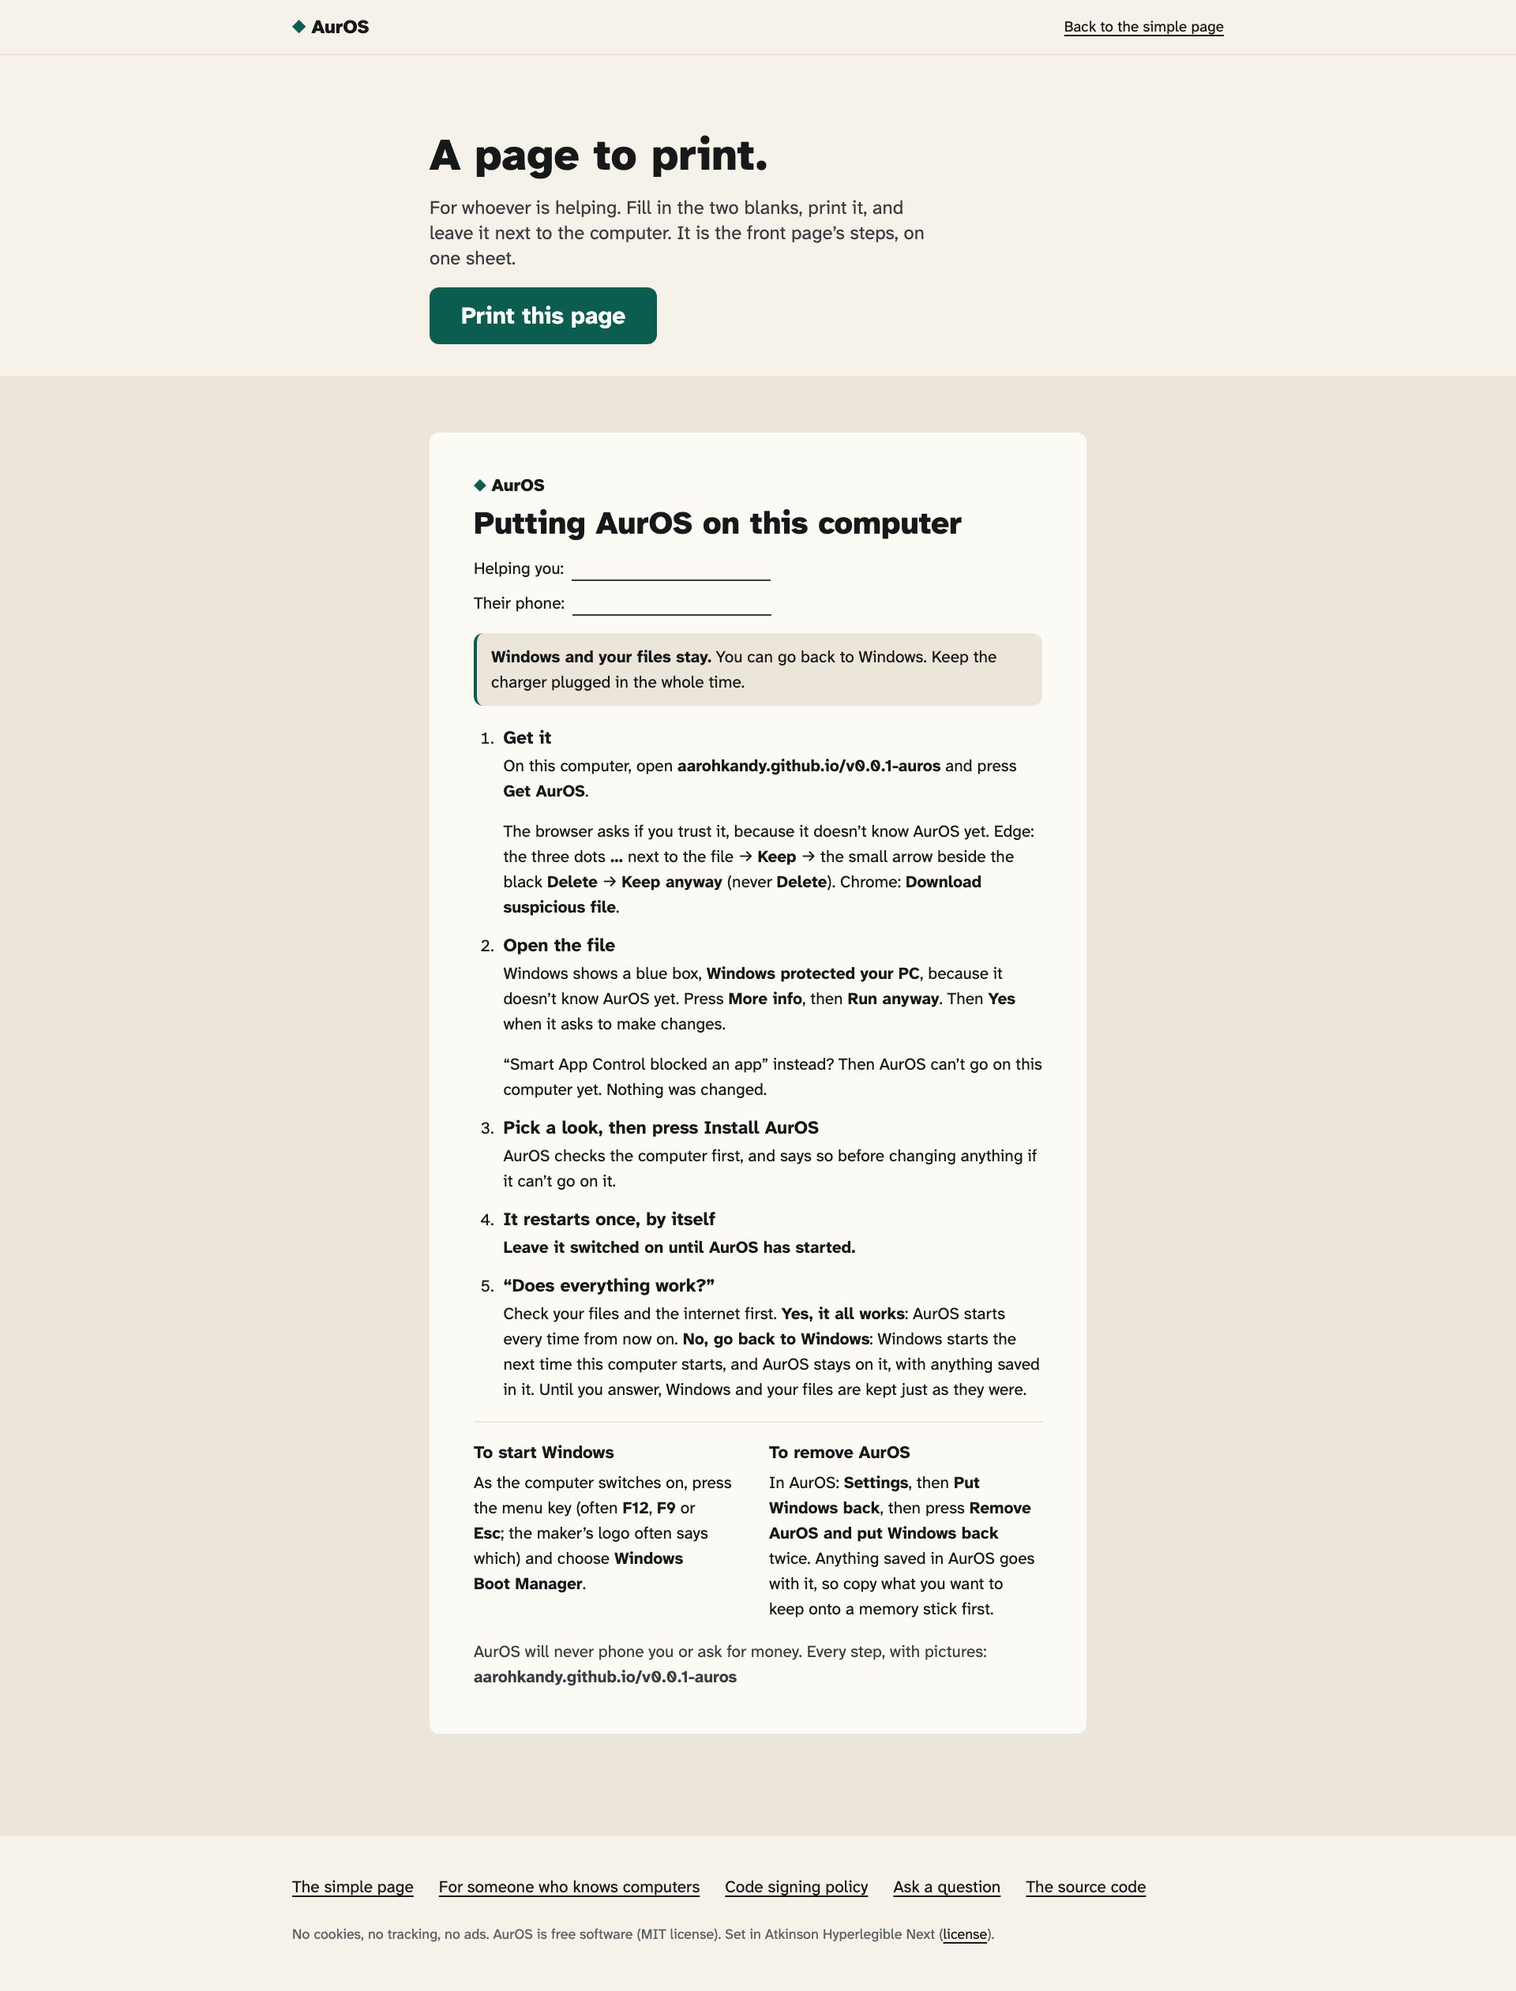
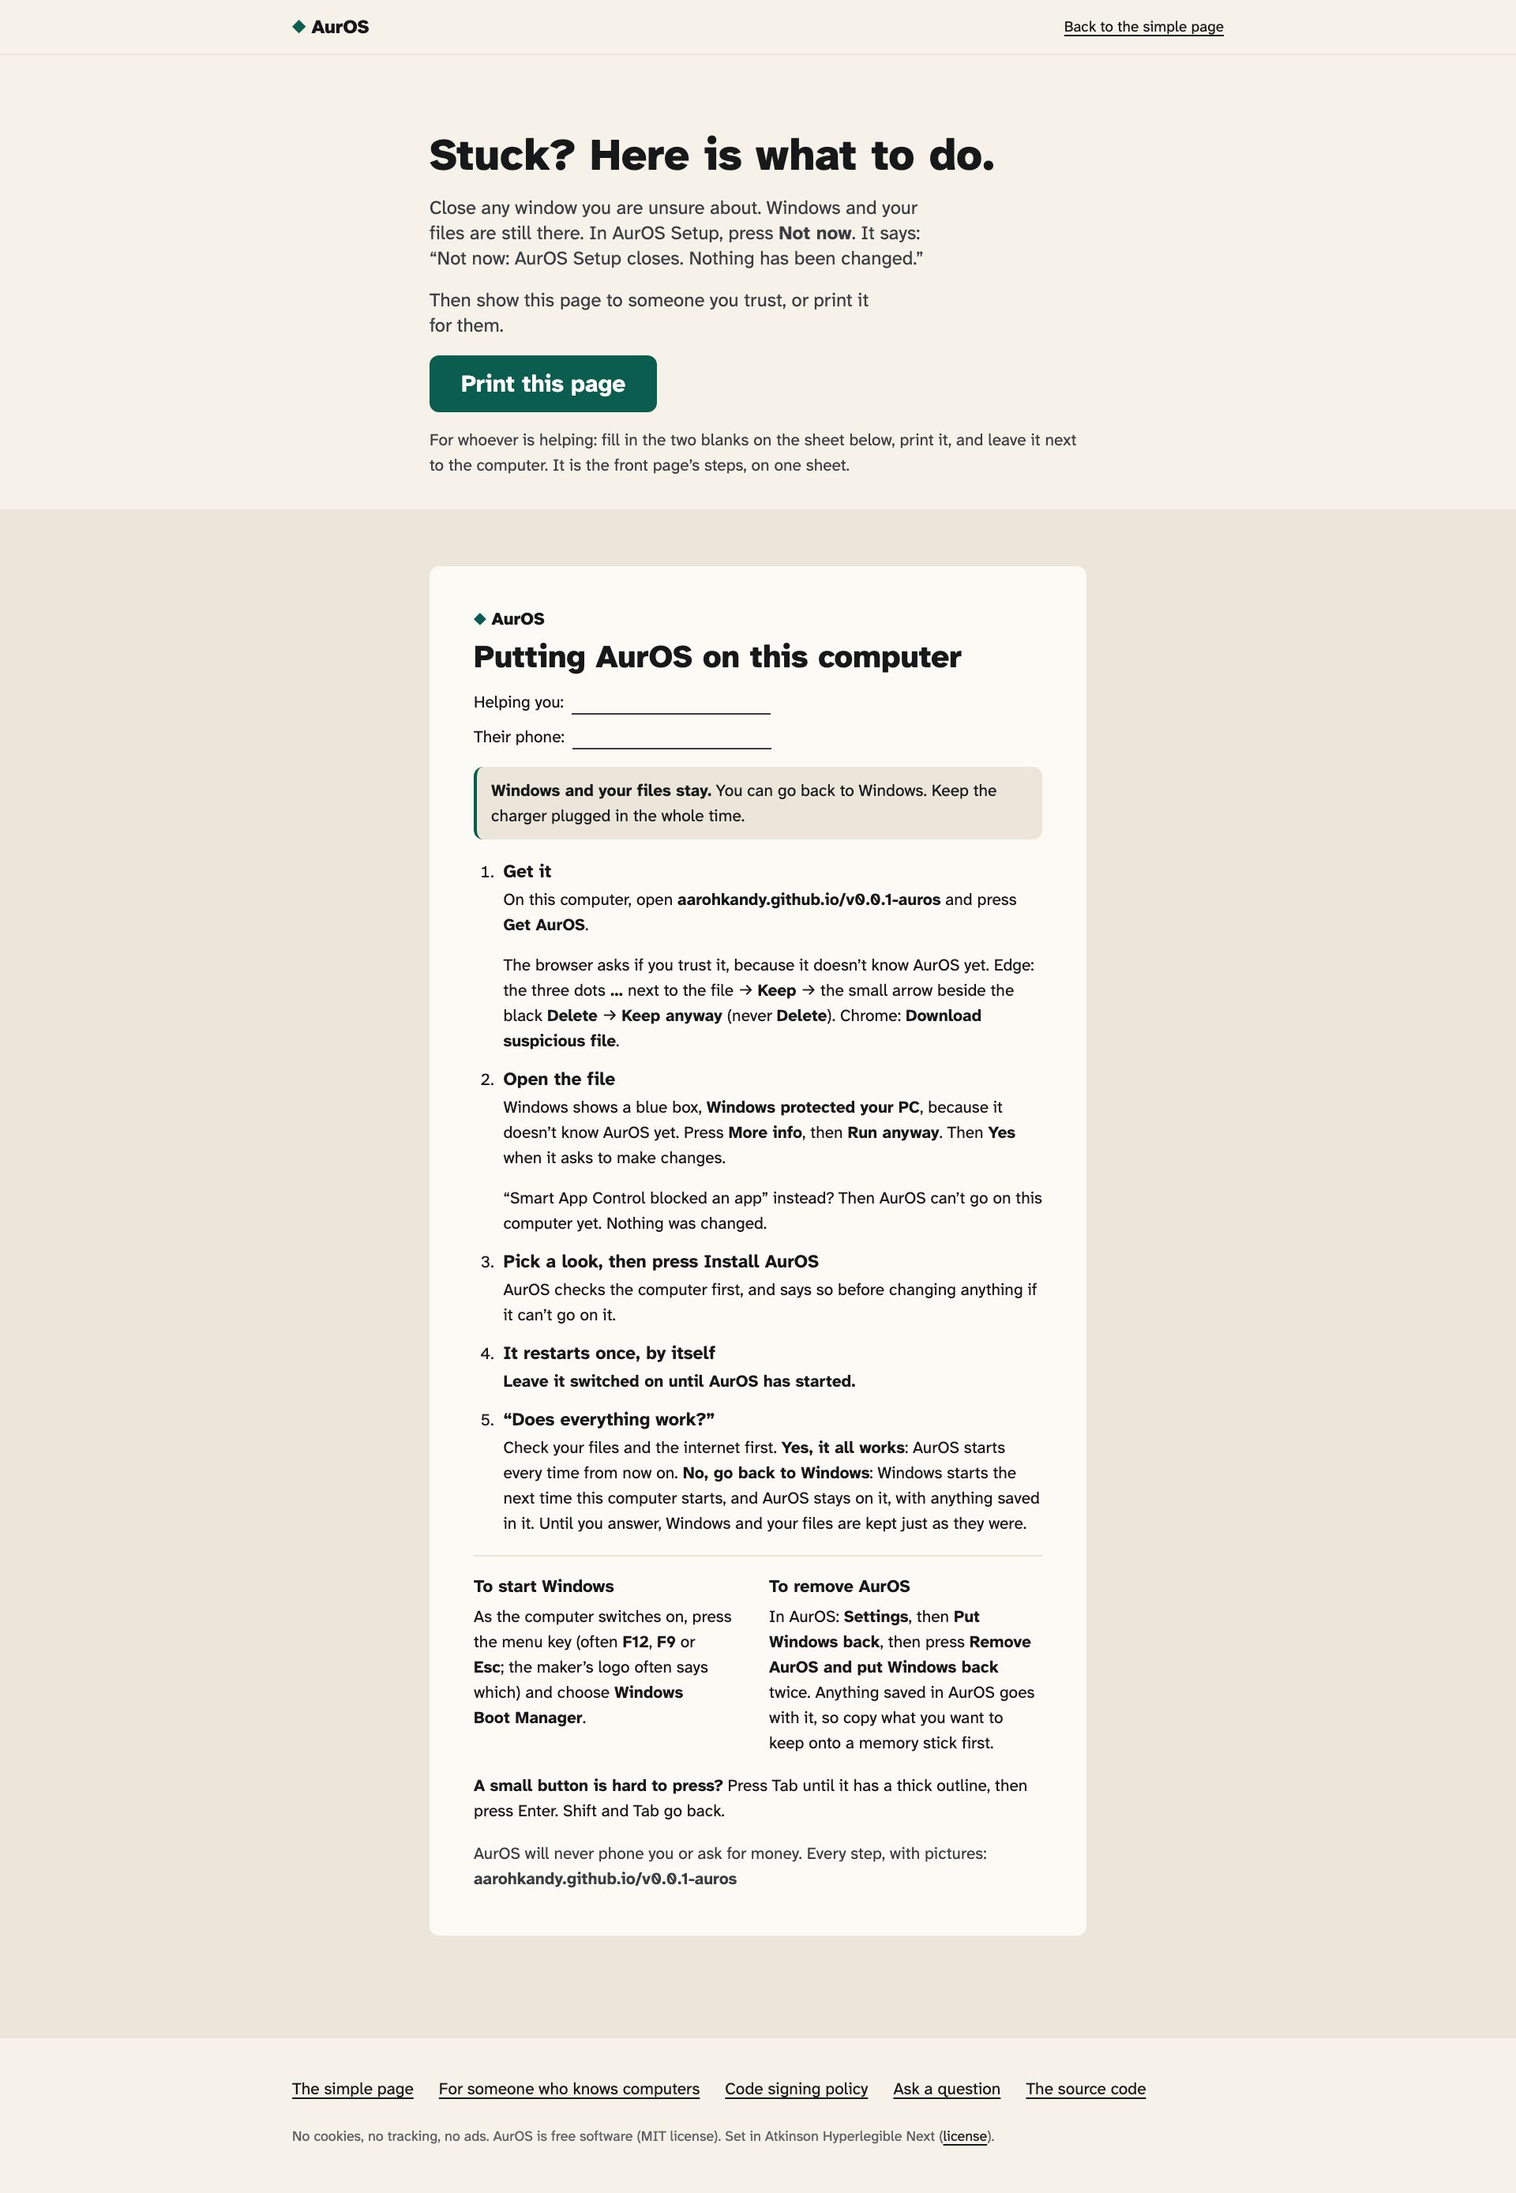
website: the walkthrough's remaining fixes (A-02, A-05, A-06, A-09, B-03, B-04, B-06)
Each check was written first and failed (17 red) before the page changed.

A-02: under the button, "Not sure which Windows you have? Press Get AurOS.
Setup checks, and changes nothing if it can't go on"; the second half is
tied to wizard.c ("AurOS stops here. Nothing was changed.").
A-05: pressing Get AurOS scrolls to step 1 and says "You are here: your
browser is asking if you trust the file" (a status for a screen reader; the
download is not stopped; a phone or Mac is not told).
A-06: "Stuck? Show a helper" becomes "Stuck? Ask someone to help", and the
page it opens starts with what she does: close the window, press Not now (it
says nothing has been changed), show the page to someone she trusts, then
Print. The old wording is refused by the check.
B-03: once, before step 1: the answers are Keep, Run anyway and Yes; never
Delete, Don't run or No.
B-04: the printed sheet says how to press a small button with Tab and Enter.
B-06: Smart App Control is described as a Windows setting someone who knows
computers can change, not "AurOS can't go on this computer".
A-09: "Will I lose my files?" no longer opens with a bare No beside advice
to copy photos: made to keep, and copy what you treasure first.

diff --git a/website/index.html b/website/index.html
@@ -43,6 +43,7 @@
           <span>Get AurOS</span>
         </a>
         <p class="facts-line">Free. For Windows&nbsp;10 and&nbsp;11. About <span data-fact="time-ssd">25 to 60</span>&nbsp;minutes. Older computers take longer.</p>
+        <p class="facts-line not-sure">Not sure which Windows you have? Press <b>Get AurOS</b>. Setup checks, and <span data-claim="stop:nothing-changed">changes nothing if it can&rsquo;t go on</span>.</p>
         <p class="old-win" id="old-win" hidden>AurOS needs Windows&nbsp;10 or&nbsp;11, and this computer may have an older Windows. AurOS Setup checks first and tells you.</p>
       </div>
 
@@ -93,13 +94,14 @@
       <div class="head">
         <p class="eyebrow">How to install</p>
         <h2 id="steps-title">Three steps. Every one shown.</h2>
-        <p>Your internet browser and Windows will each ask if you trust AurOS. The pictures show exactly what to press: follow the numbered circles.</p>
+        <p>Your internet browser and Windows will each ask if you trust AurOS, more than once. The answers are always <b>Keep</b> (then <b>Keep anyway</b>), <b>Run anyway</b> and <b>Yes</b>. Never press <b>Delete</b>, <b>Don&rsquo;t run</b> or <b>No</b>. The pictures show exactly where: follow the numbered circles.</p>
       </div>
 
       <ol class="steplist">
         <!-- 1: the download -->
         <li class="step" id="step-download">
           <div class="step-text">
+            <p class="here" id="here" role="status"></p>
             <span class="num" aria-hidden="true">1</span>
             <h3><span class="vh">Step 1: </span>Download it</h3>
             <p>Press <b>Get AurOS</b>. Your computer saves a file called <span class="file">AurOS-Setup.exe</span>.</p>
@@ -107,9 +109,9 @@
             <p>Then open it: press <b>Open file</b> under its name, or find <span class="file">AurOS-Setup.exe</span> in your <b>Downloads</b> folder and open it.</p>
             <div class="note" id="antivirus">
               <h4>If your antivirus program takes the file</h4>
-              <p>Some antivirus programs don&rsquo;t know AurOS yet either, and may put the file away. Nothing has been installed, and nothing on your computer has changed. Open your antivirus program, look for its list of blocked files, and put <span class="file">AurOS-Setup.exe</span> back, only if you got it from this page a moment ago. If you can&rsquo;t find it, press <b>Stuck? Show a helper</b>.</p>
+              <p>Some antivirus programs don&rsquo;t know AurOS yet either, and may put the file away. Nothing has been installed, and nothing on your computer has changed. Open your antivirus program, look for its list of blocked files, and put <span class="file">AurOS-Setup.exe</span> back, only if you got it from this page a moment ago. If you can&rsquo;t find it, press <b>Stuck? Ask someone to help</b>.</p>
             </div>
-            <p class="helper"><a class="btn2" href="guide.html">Stuck? Show a helper</a></p>
+            <p class="helper"><a class="btn2" href="guide.html">Stuck? Ask someone to help</a></p>
           </div>
 
           <div>
@@ -183,7 +185,7 @@
             <p>Windows may show a blue box, <b>Windows protected your PC</b>, because it doesn&rsquo;t know AurOS yet. If you see it, press <b>More info</b>, then <b>Run anyway</b>, only if you got this file from this page a moment ago.</p>
             <p>Then Windows asks whether AurOS may make changes. Press <b>Yes</b>, the white button on the left. The blue button is <b>No</b>.</p>
             <p>If Windows asks for a password, stop. It needs the person who set up this computer.</p>
-            <p class="helper"><a class="btn2" href="guide.html">Stuck? Show a helper</a></p>
+            <p class="helper"><a class="btn2" href="guide.html">Stuck? Ask someone to help</a></p>
           </div>
 
           <div class="pics">
@@ -216,7 +218,7 @@
                  change she is not walked through here
                  (docs/DESIGN-DIRECTION.md section 5, D P0-1). -->
             <div class="sac" id="smart-app-control">
-              <p>If Windows says <b>Smart App Control blocked an app</b>, AurOS can&rsquo;t go on this computer yet. Nothing was changed.</p>
+              <p>If Windows says <b>Smart App Control blocked an app</b>, that is a Windows setting on some newer computers. Someone who knows computers can change it. Nothing was changed.</p>
               <p><a class="btn2" href="advanced.html#smart-app-control">Show a helper how</a></p>
             </div>
           </div>
@@ -231,7 +233,7 @@
             <p>Press <b data-ui="wizard">Next</b>, pick the look you like, press <b data-ui="wizard">Next</b> again, then <b data-ui="wizard">Install AurOS</b>. The computer <b>restarts once, by itself</b>. <span data-claim="dark:minute-or-two">The screen goes dark for a minute or two.</span> Leave the computer switched on.</p>
             <p data-claim="hold:rearms">When AurOS starts, it asks whether everything works. Until you answer, AurOS starts each time you switch on, and <b>Windows and your files are kept just as they were.</b> If AurOS fails to start, the computer starts Windows instead.</p>
             <p><b data-ui="desktop">No, go back to Windows</b>: Windows starts the next time this computer starts. AurOS stays on this computer, with anything you saved in it. Nothing is deleted.</p>
-            <p class="helper"><a class="btn2" href="guide.html">Stuck? Show a helper</a></p>
+            <p class="helper"><a class="btn2" href="guide.html">Stuck? Ask someone to help</a></p>
           </div>
 
           <div class="pics">
@@ -340,7 +342,7 @@
     <div class="wrap">
       <div class="head"><h2 id="faq-title">Questions.</h2></div>
       <div class="qa"><h3>Is it free?</h3><div><p>Yes. No ads and no subscription. AurOS is made in the open, so anyone can check how it works.</p></div></div>
-      <div class="qa"><h3>Will I lose my files?</h3><div><p>No. AurOS goes into empty room on your computer, and your files stay in Windows, untouched.</p></div></div>
+      <div class="qa"><h3>Will I lose my files?</h3><div><p>AurOS is made to keep your files. It goes into empty room on your computer, and your files stay in Windows, untouched. As before any big change, copy the photos you treasure onto a memory stick first.</p></div></div>
       <div class="qa"><h3>Can I go back to Windows?</h3><div><p>Yes. Until you tell AurOS that everything works, Windows and your files are kept just as they were. After <b data-ui="desktop">No, go back to Windows</b>, Windows starts the next time this computer starts. AurOS stays on this computer, with anything you saved in it. Nothing is deleted.</p><p>Later, <b data-ui="desktop">Put Windows back</b> in AurOS&rsquo;s Settings removes AurOS, and anything you saved in AurOS goes with it, so copy what you want to keep onto a memory stick first.</p></div></div>
       <div class="qa"><h3>What about my programs, like Microsoft Office?</h3><div><p>Programs made for Windows don&rsquo;t run in AurOS. AurOS comes with its own programs for the internet, notes, photos, music and video, and <b data-ui="desktop">Get more programs</b> has many more, free. You can use Microsoft Office on the internet, at office.com.</p></div></div>
       <div class="qa"><h3>Is it safe?</h3><div><p>Your files and Windows are kept until you say everything works. AurOS Setup checks your computer before it changes anything. Windows and your internet browser ask if you trust AurOS because they don&rsquo;t know it yet.</p></div></div>

diff --git a/website/guide.html b/website/guide.html
@@ -23,9 +23,11 @@
 <main id="main">
   <section class="page-head no-print" aria-labelledby="guide-title">
     <div class="narrow">
-      <h1 id="guide-title">A page to print.</h1>
-      <p class="lede">For whoever is helping. Fill in the two blanks, print it, and leave it next to the computer. It is the front page&rsquo;s steps, on one sheet.</p>
+      <h1 id="guide-title">Stuck? Here is what to do.</h1>
+      <p class="lede">Close any window you are unsure about. Windows and your files are still there. In AurOS Setup, press <b data-ui="wizard">Not now</b>. It says: &ldquo;<span data-ui="wizard">Not now: AurOS Setup closes. Nothing has been changed.</span>&rdquo;</p>
+      <p class="lede">Then show this page to someone you trust, or print it for them.</p>
       <p><button class="get" type="button" id="print">Print this page</button></p>
+      <p class="fig-note">For whoever is helping: fill in the two blanks on the sheet below, print it, and leave it next to the computer. It is the front page&rsquo;s steps, on one sheet.</p>
     </div>
   </section>
 
@@ -59,6 +61,7 @@
           <div><h3>To remove AurOS</h3>
             <p>In AurOS: <b>Settings</b>, then <b data-ui="desktop">Put Windows back</b>, then press <b data-ui="desktop">Remove AurOS and put Windows back</b> twice. Anything saved in AurOS goes with it, so copy what you want to keep onto a memory stick first.</p></div>
         </div>
+        <p class="sheet-tip"><b>A small button is hard to press?</b> Press Tab until it has a thick outline, then press Enter. Shift and Tab go back.</p>
         <p class="sheet-foot">AurOS will never phone you or ask for money. Every step, with pictures: <span class="addr">@AUROS_ADDRESS@</span></p>
       </article>
     </div>

diff --git a/website/assets/door.js b/website/assets/door.js
@@ -139,6 +139,23 @@
     tabs.parentNode.parentNode.classList.add("looks-tabs-on");
   }
 
+  /* After the press on a Windows computer: the browser's warning appears at the
+   * top right while this page still shows the button, and step 1 (with the
+   * picture of that warning) is two screens down. Say where she is, and bring
+   * step 1 up. Nothing here stops the download. */
+  var here = $("here");
+  var reduced = window.matchMedia && window.matchMedia("(prefers-reduced-motion: reduce)").matches;
+  [].forEach.call(document.querySelectorAll("#get, [data-download]"), function (a) {
+    a.addEventListener("click", function () {
+      if (!here || root.classList.contains("is-elsewhere")) return;
+      setTimeout(function () {
+        here.textContent = "You are here: your browser is asking if you trust the file. Follow the numbered circles.";
+        var step = $("step-download");
+        if (step) step.scrollIntoView({ behavior: reduced ? "auto" : "smooth", block: "start" });
+      }, 600);
+    });
+  });
+
   var kind = osKind();
   if (kind && kind !== "windows") {
     showElsewhere(kind);

diff --git a/website/assets/site.css b/website/assets/site.css
@@ -253,6 +253,10 @@ button.get { border: 0; cursor: pointer; }
 .e-chev { width: 20px; height: 20px; }
 .e-file { width: 26px; height: 26px; flex: none; background: var(--win-blue); border-radius: 4px; margin-top: 2px; }
 .e-open { display: inline-block; color: #0F5CA8; margin-top: 22px; padding: 2px 4px; }
+.not-sure { margin-top: -2px; }
+.here:empty { margin: 0; padding: 0; height: 0; overflow: hidden; }
+.here:not(:empty) { background: var(--selected); border-left: 6px solid var(--go); border-radius: 8px; padding: 12px 16px; margin: 0 0 20px; font-weight: 700; color: var(--ink) !important; }
+.sheet-tip { margin-top: 22px; }
 .fig-lead { margin: 0; font-weight: 700; color: var(--ink); }
 .asof { font-weight: 400; color: var(--ink-2); }
 .note h4 { font: 700 21px/1.3 var(--face); margin-bottom: 6px; }

diff --git a/docs/handoff/streams/D.md b/docs/handoff/streams/D.md
@@ -86,10 +86,36 @@ phones/Macs get "open this on your Windows PC" + send-yourself-the-link.
 - P2-13 (no printed address): the guide prints it; a short address of our own
   is the owner's WP-15 domain. `AUROS_DOMAIN` moves the Get AurOS link only
   (stamp.sh); the printed address is still the github.io one.
-- Not done from the walkthrough (not asked): A-02 (a line under the button
-  about not knowing which Windows), A-05 (scroll to step 1 after the press),
-  A-06 (rename "Stuck? Show a helper": DESIGN-DIRECTION fixes that string),
-  A-09, B-03, B-04, B-06.
+- Third pass (walkthrough A-02, A-05, A-06, A-09, B-03, B-04, B-06; every
+  check was written first and seen to fail, 17 red, then green; 323 checks):
+  A-02 a line under the button ("Not sure which Windows you have? Press Get
+  AurOS. Setup checks, and changes nothing if it can't go on", the last half
+  tied to wizard.c's "Nothing was changed"); A-05 after the press, step 1 is
+  scrolled up and says "You are here: your browser is asking if you trust the
+  file" (a status; the download is not stopped; not on a phone/Mac); A-06 the
+  buttons say "Stuck? Ask someone to help" and the page they open starts with
+  what she does (close, press Not now, nothing is changed, show this to
+  someone you trust), then Print; B-03 "The answers are always Keep, Run
+  anyway and Yes. Never press Delete, Don't run or No" before step 1; B-04 the
+  Tab-then-Enter way on the printed sheet; B-06 Smart App Control is "a
+  Windows setting ... someone who knows computers can change it" (not "AurOS
+  can't go on"), nothing was changed, and a button to K's page; A-09 "AurOS is
+  made to keep your files ... copy the photos you treasure first" (no bare No).
+- Still not done: A-02's Windows-version detection (the line says to press the
+  button instead), the Chrome/Firefox pictures from real screenshots, real
+  content in the desktop pictures (needs C's renders), the measured journey
+  time in `tools/site/journey.json` (F's runs have not got past the staging
+  refusal; watch docs/handoff/streams/F.md "M2").
+
+## Waiting on others
+- Real content in the desktop pictures (a news page in Internet, 12 family
+  photos; DESIGN-DIRECTION P0-3) needs C's screenshot set; today they are
+  honest renders of an empty desktop with the programs list.
+- The measured time: stream F's journey clock.
+- P2-13: the guide prints the github.io address; a short address of our own is
+  the owner's WP-15 domain.
+- The guide's hand-written "Their phone" blank stays (the helper's number, by
+  hand: lead's decision); AurOS prints no phone number.
 
 ## How to verify
 ```sh
